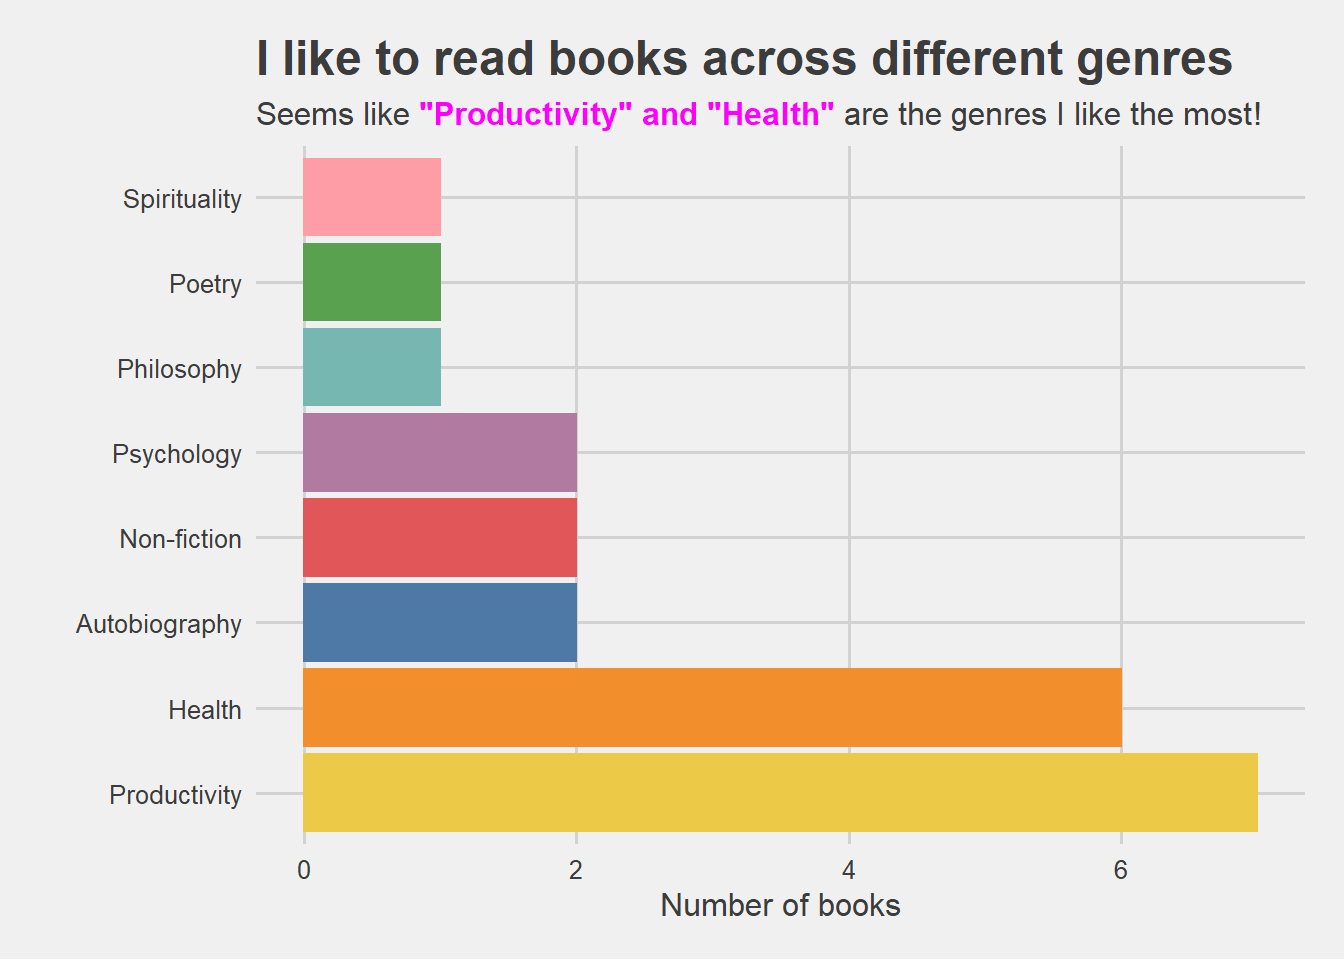
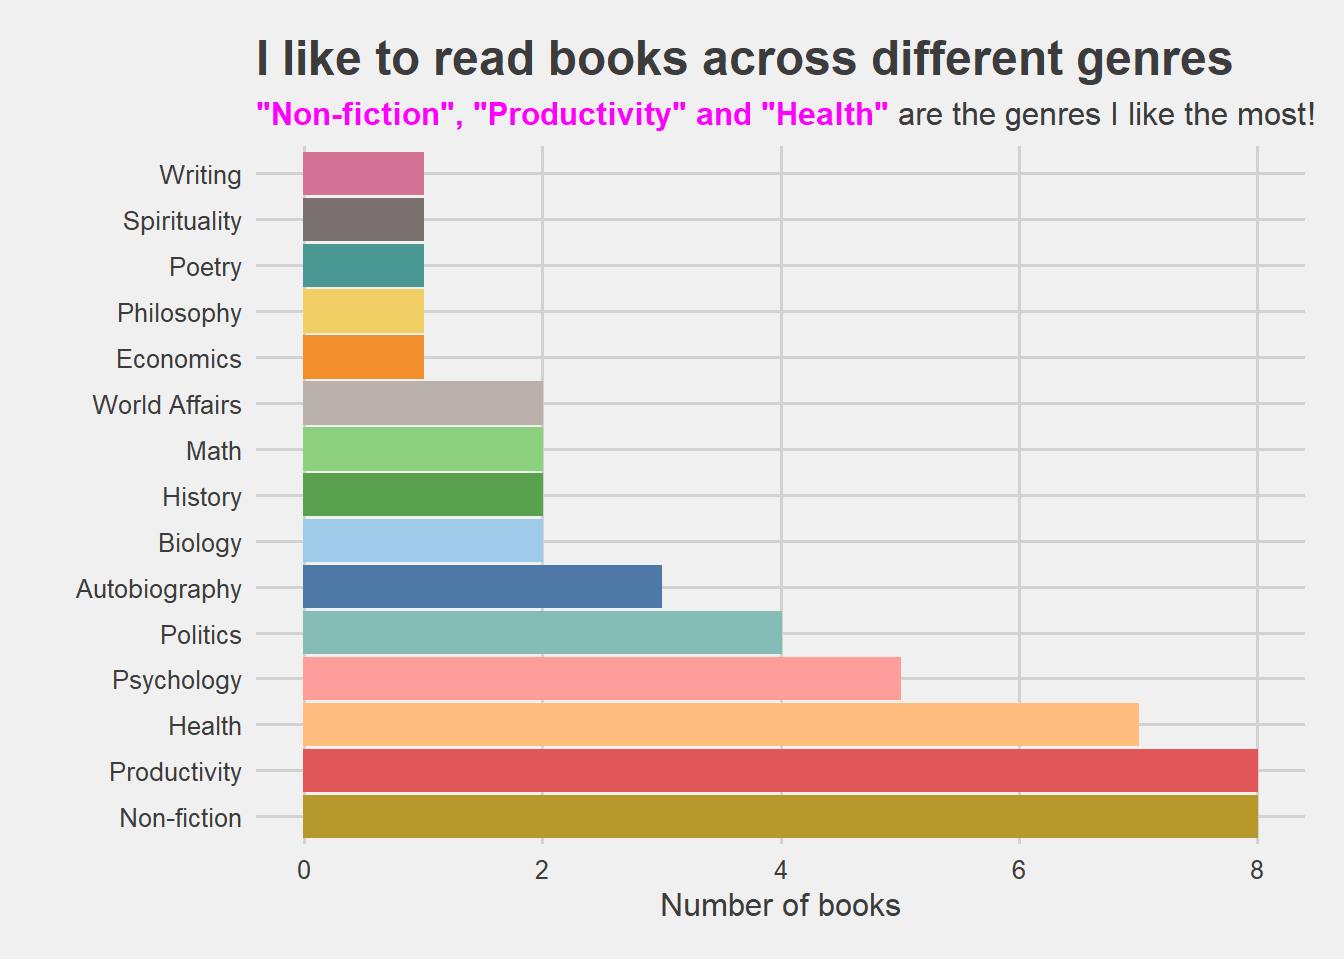
update graphi to include all genres

Changed region(s): [[0.0625, 0.0938, 0.9688, 0.875]]

diff --git a/index.html b/index.html
@@ -95,12 +95,12 @@ ul.task-list{list-style: none;}
 <div class="cell">
 <div class="cell-output-display">
 
-<div id="kpagyrrinq" style="overflow-x:auto;overflow-y:auto;width:auto;height:auto;">
+<div id="tcsmkletfc" style="overflow-x:auto;overflow-y:auto;width:auto;height:auto;">
 <style>html {
   font-family: -apple-system, BlinkMacSystemFont, 'Segoe UI', Roboto, Oxygen, Ubuntu, Cantarell, 'Helvetica Neue', 'Fira Sans', 'Droid Sans', Arial, sans-serif;
 }
 
-#kpagyrrinq .gt_table {
+#tcsmkletfc .gt_table {
   display: table;
   border-collapse: collapse;
   margin-left: auto;
@@ -125,7 +125,7 @@ ul.task-list{list-style: none;}
   border-left-color: #D3D3D3;
 }
 
-#kpagyrrinq .gt_heading {
+#tcsmkletfc .gt_heading {
   background-color: #FFFFFF;
   text-align: center;
   border-bottom-color: #FFFFFF;
@@ -137,7 +137,7 @@ ul.task-list{list-style: none;}
   border-right-color: #D3D3D3;
 }
 
-#kpagyrrinq .gt_title {
+#tcsmkletfc .gt_title {
   color: #333333;
   font-size: 125%;
   font-weight: initial;
@@ -149,7 +149,7 @@ ul.task-list{list-style: none;}
   border-bottom-width: 0;
 }
 
-#kpagyrrinq .gt_subtitle {
+#tcsmkletfc .gt_subtitle {
   color: #333333;
   font-size: 85%;
   font-weight: initial;
@@ -161,13 +161,13 @@ ul.task-list{list-style: none;}
   border-top-width: 0;
 }
 
-#kpagyrrinq .gt_bottom_border {
+#tcsmkletfc .gt_bottom_border {
   border-bottom-style: solid;
   border-bottom-width: 2px;
   border-bottom-color: #D3D3D3;
 }
 
-#kpagyrrinq .gt_col_headings {
+#tcsmkletfc .gt_col_headings {
   border-top-style: solid;
   border-top-width: 2px;
   border-top-color: #D3D3D3;
@@ -182,7 +182,7 @@ ul.task-list{list-style: none;}
   border-right-color: #D3D3D3;
 }
 
-#kpagyrrinq .gt_col_heading {
+#tcsmkletfc .gt_col_heading {
   color: #333333;
   background-color: #FFFFFF;
   font-size: 100%;
@@ -202,7 +202,7 @@ ul.task-list{list-style: none;}
   overflow-x: hidden;
 }
 
-#kpagyrrinq .gt_column_spanner_outer {
+#tcsmkletfc .gt_column_spanner_outer {
   color: #333333;
   background-color: #FFFFFF;
   font-size: 100%;
@@ -214,15 +214,15 @@ ul.task-list{list-style: none;}
   padding-right: 4px;
 }
 
-#kpagyrrinq .gt_column_spanner_outer:first-child {
+#tcsmkletfc .gt_column_spanner_outer:first-child {
   padding-left: 0;
 }
 
-#kpagyrrinq .gt_column_spanner_outer:last-child {
+#tcsmkletfc .gt_column_spanner_outer:last-child {
   padding-right: 0;
 }
 
-#kpagyrrinq .gt_column_spanner {
+#tcsmkletfc .gt_column_spanner {
   border-bottom-style: solid;
   border-bottom-width: 2px;
   border-bottom-color: #D3D3D3;
@@ -234,7 +234,7 @@ ul.task-list{list-style: none;}
   width: 100%;
 }
 
-#kpagyrrinq .gt_group_heading {
+#tcsmkletfc .gt_group_heading {
   padding-top: 8px;
   padding-bottom: 8px;
   padding-left: 5px;
@@ -259,7 +259,7 @@ ul.task-list{list-style: none;}
   vertical-align: middle;
 }
 
-#kpagyrrinq .gt_empty_group_heading {
+#tcsmkletfc .gt_empty_group_heading {
   padding: 0.5px;
   color: #333333;
   background-color: #FFFFFF;
@@ -274,15 +274,15 @@ ul.task-list{list-style: none;}
   vertical-align: middle;
 }
 
-#kpagyrrinq .gt_from_md > :first-child {
+#tcsmkletfc .gt_from_md > :first-child {
   margin-top: 0;
 }
 
-#kpagyrrinq .gt_from_md > :last-child {
+#tcsmkletfc .gt_from_md > :last-child {
   margin-bottom: 0;
 }
 
-#kpagyrrinq .gt_row {
+#tcsmkletfc .gt_row {
   padding-top: 8px;
   padding-bottom: 8px;
   padding-left: 5px;
@@ -301,7 +301,7 @@ ul.task-list{list-style: none;}
   overflow-x: hidden;
 }
 
-#kpagyrrinq .gt_stub {
+#tcsmkletfc .gt_stub {
   color: #333333;
   background-color: #FFFFFF;
   font-size: 100%;
@@ -314,7 +314,7 @@ ul.task-list{list-style: none;}
   padding-right: 5px;
 }
 
-#kpagyrrinq .gt_stub_row_group {
+#tcsmkletfc .gt_stub_row_group {
   color: #333333;
   background-color: #FFFFFF;
   font-size: 100%;
@@ -328,11 +328,11 @@ ul.task-list{list-style: none;}
   vertical-align: top;
 }
 
-#kpagyrrinq .gt_row_group_first td {
+#tcsmkletfc .gt_row_group_first td {
   border-top-width: 2px;
 }
 
-#kpagyrrinq .gt_summary_row {
+#tcsmkletfc .gt_summary_row {
   color: #333333;
   background-color: #FFFFFF;
   text-transform: inherit;
@@ -342,16 +342,16 @@ ul.task-list{list-style: none;}
   padding-right: 5px;
 }
 
-#kpagyrrinq .gt_first_summary_row {
+#tcsmkletfc .gt_first_summary_row {
   border-top-style: solid;
   border-top-color: #D3D3D3;
 }
 
-#kpagyrrinq .gt_first_summary_row.thick {
+#tcsmkletfc .gt_first_summary_row.thick {
   border-top-width: 2px;
 }
 
-#kpagyrrinq .gt_last_summary_row {
+#tcsmkletfc .gt_last_summary_row {
   padding-top: 8px;
   padding-bottom: 8px;
   padding-left: 5px;
@@ -361,7 +361,7 @@ ul.task-list{list-style: none;}
   border-bottom-color: #D3D3D3;
 }
 
-#kpagyrrinq .gt_grand_summary_row {
+#tcsmkletfc .gt_grand_summary_row {
   color: #333333;
   background-color: #FFFFFF;
   text-transform: inherit;
@@ -371,7 +371,7 @@ ul.task-list{list-style: none;}
   padding-right: 5px;
 }
 
-#kpagyrrinq .gt_first_grand_summary_row {
+#tcsmkletfc .gt_first_grand_summary_row {
   padding-top: 8px;
   padding-bottom: 8px;
   padding-left: 5px;
@@ -381,11 +381,11 @@ ul.task-list{list-style: none;}
   border-top-color: #D3D3D3;
 }
 
-#kpagyrrinq .gt_striped {
+#tcsmkletfc .gt_striped {
   background-color: rgba(128, 128, 128, 0.05);
 }
 
-#kpagyrrinq .gt_table_body {
+#tcsmkletfc .gt_table_body {
   border-top-style: solid;
   border-top-width: 2px;
   border-top-color: #D3D3D3;
@@ -394,7 +394,7 @@ ul.task-list{list-style: none;}
   border-bottom-color: #D3D3D3;
 }
 
-#kpagyrrinq .gt_footnotes {
+#tcsmkletfc .gt_footnotes {
   color: #333333;
   background-color: #FFFFFF;
   border-bottom-style: none;
@@ -408,7 +408,7 @@ ul.task-list{list-style: none;}
   border-right-color: #D3D3D3;
 }
 
-#kpagyrrinq .gt_footnote {
+#tcsmkletfc .gt_footnote {
   margin: 0px;
   font-size: 90%;
   padding-left: 4px;
@@ -417,7 +417,7 @@ ul.task-list{list-style: none;}
   padding-right: 5px;
 }
 
-#kpagyrrinq .gt_sourcenotes {
+#tcsmkletfc .gt_sourcenotes {
   color: #333333;
   background-color: #FFFFFF;
   border-bottom-style: none;
@@ -431,7 +431,7 @@ ul.task-list{list-style: none;}
   border-right-color: #D3D3D3;
 }
 
-#kpagyrrinq .gt_sourcenote {
+#tcsmkletfc .gt_sourcenote {
   font-size: 90%;
   padding-top: 4px;
   padding-bottom: 4px;
@@ -439,64 +439,64 @@ ul.task-list{list-style: none;}
   padding-right: 5px;
 }
 
-#kpagyrrinq .gt_left {
+#tcsmkletfc .gt_left {
   text-align: left;
 }
 
-#kpagyrrinq .gt_center {
+#tcsmkletfc .gt_center {
   text-align: center;
 }
 
-#kpagyrrinq .gt_right {
+#tcsmkletfc .gt_right {
   text-align: right;
   font-variant-numeric: tabular-nums;
 }
 
-#kpagyrrinq .gt_font_normal {
+#tcsmkletfc .gt_font_normal {
   font-weight: normal;
 }
 
-#kpagyrrinq .gt_font_bold {
+#tcsmkletfc .gt_font_bold {
   font-weight: bold;
 }
 
-#kpagyrrinq .gt_font_italic {
+#tcsmkletfc .gt_font_italic {
   font-style: italic;
 }
 
-#kpagyrrinq .gt_super {
+#tcsmkletfc .gt_super {
   font-size: 65%;
 }
 
-#kpagyrrinq .gt_footnote_marks {
+#tcsmkletfc .gt_footnote_marks {
   font-style: italic;
   font-weight: normal;
   font-size: 75%;
   vertical-align: 0.4em;
 }
 
-#kpagyrrinq .gt_asterisk {
+#tcsmkletfc .gt_asterisk {
   font-size: 100%;
   vertical-align: 0;
 }
 
-#kpagyrrinq .gt_indent_1 {
+#tcsmkletfc .gt_indent_1 {
   text-indent: 5px;
 }
 
-#kpagyrrinq .gt_indent_2 {
+#tcsmkletfc .gt_indent_2 {
   text-indent: 10px;
 }
 
-#kpagyrrinq .gt_indent_3 {
+#tcsmkletfc .gt_indent_3 {
   text-indent: 15px;
 }
 
-#kpagyrrinq .gt_indent_4 {
+#tcsmkletfc .gt_indent_4 {
   text-indent: 20px;
 }
 
-#kpagyrrinq .gt_indent_5 {
+#tcsmkletfc .gt_indent_5 {
   text-indent: 25px;
 }
 </style>
@@ -623,7 +623,7 @@ ul.task-list{list-style: none;}
 <td class="gt_row gt_left">Finished</td>
 <td class="gt_row gt_left">Highly Recommend</td></tr>
     <tr><td class="gt_row gt_left">Can't Hurt Me</td>
-<td class="gt_row gt_left">David Googins</td>
+<td class="gt_row gt_left">David Goggins</td>
 <td class="gt_row gt_left">Autobiography</td>
 <td class="gt_row gt_right">2021</td>
 <td class="gt_row gt_left">Finished</td>
